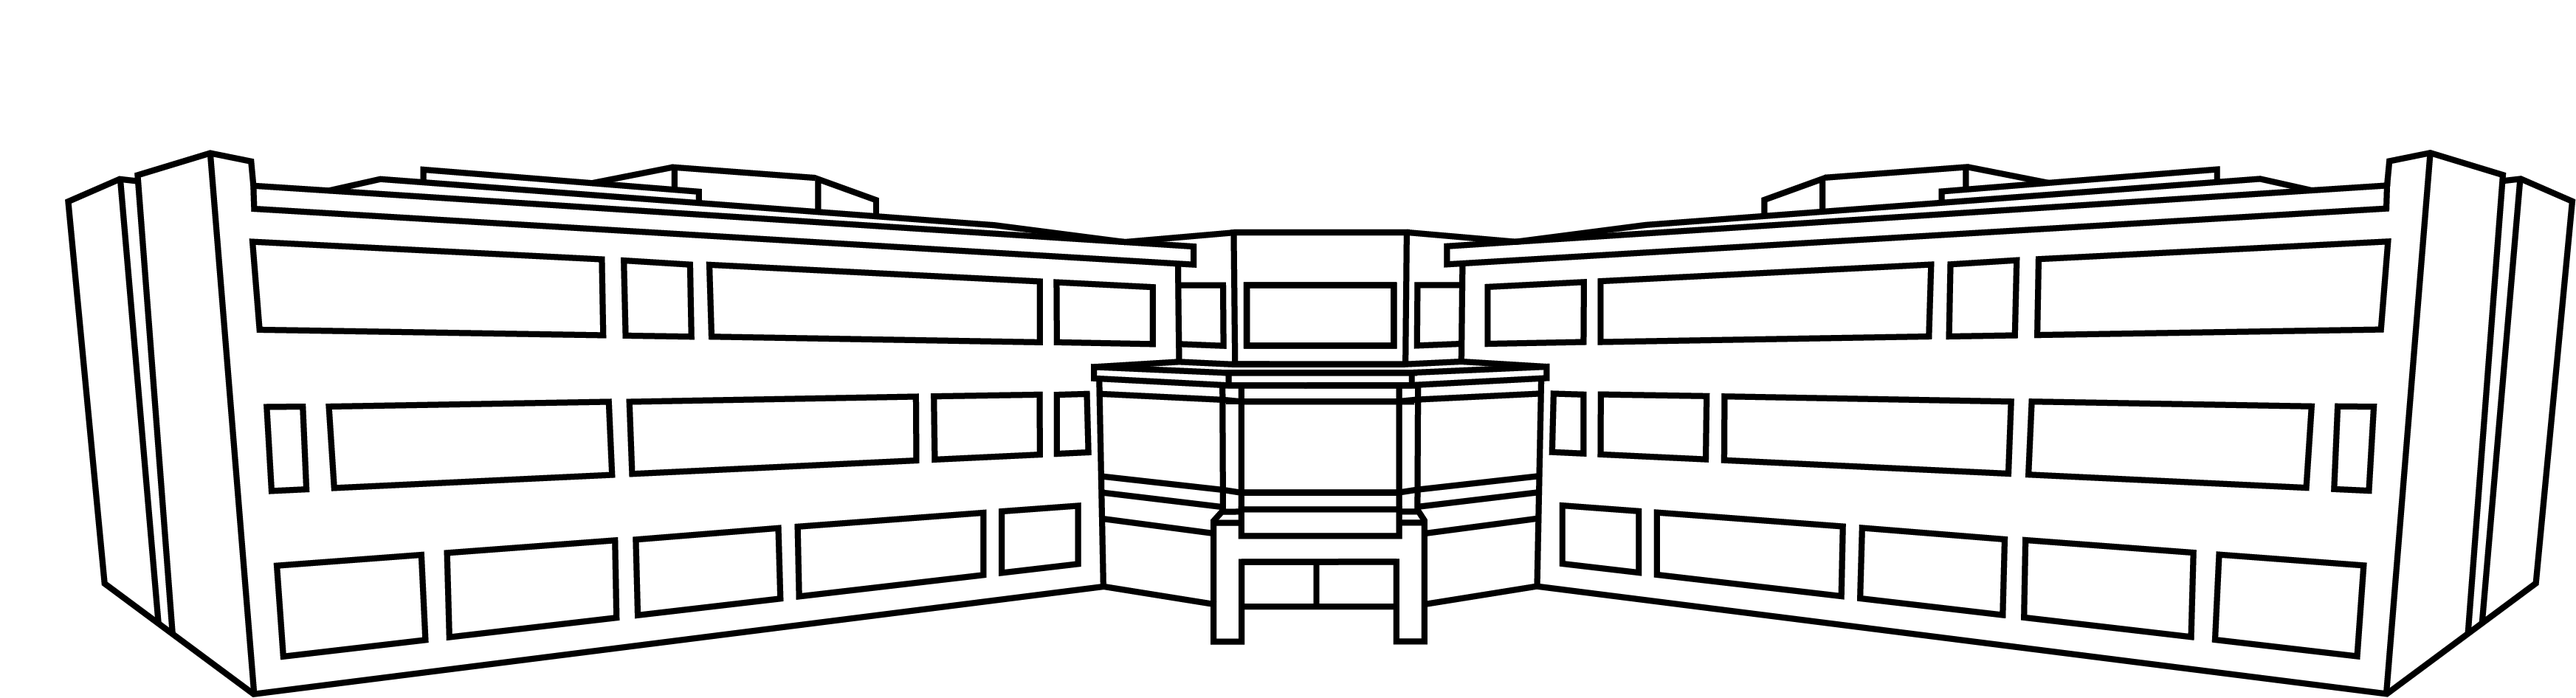
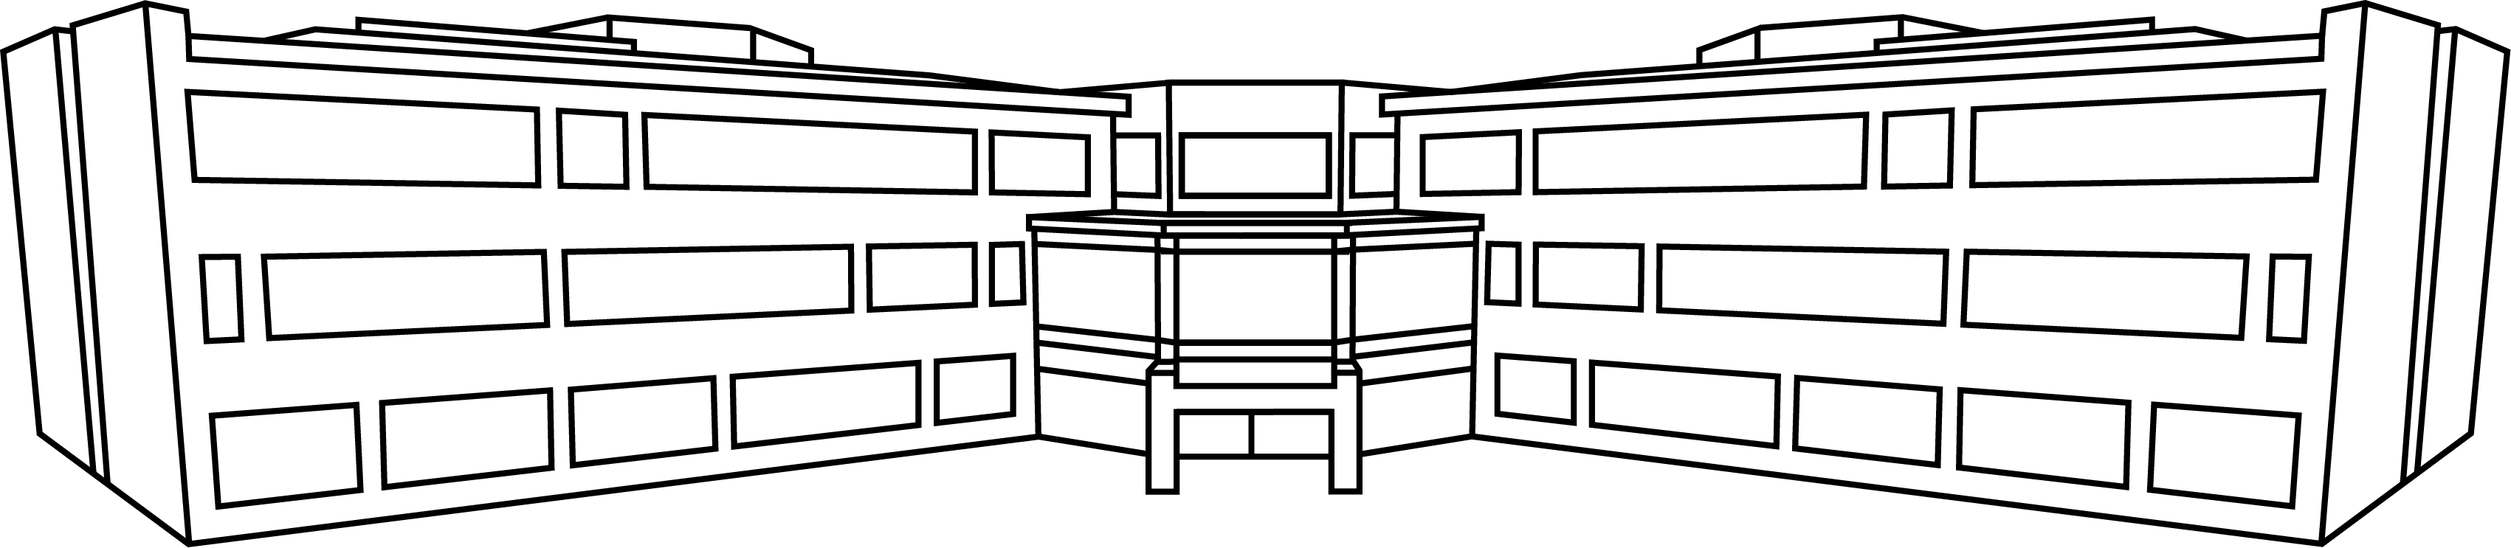
fix(schule-weiß): fix dimensions and border

Changed region(s): [[0.0, 0.0, 1.0, 1.0]]

diff --git a/components/Hero.js b/components/Hero.js
@@ -40,12 +40,12 @@ const Hero = ({ blok }) => {
         <StoryblokComponent blok={nestedBlok} key={nestedBlok._uid} />
       ))}
       {blok.type == "school" ? (
-        <div className="relative -top-32 sm:col-span-7">
+        <div className="relative -top-8 xs:-top-10 sm:-top-12 sm:col-span-7 md:-top-16">
           <img
             // src={process.env.PUBLIC_URL + "/schule_weiss.png"}
             src="./schule_weiss.png"
             alt="schule in schwarz weiß"
-            className="mx-auto w-full max-w-screen-xl"
+            className="mx-auto w-full max-w-screen-xl p-4"
           />
         </div>
       ) : null}
